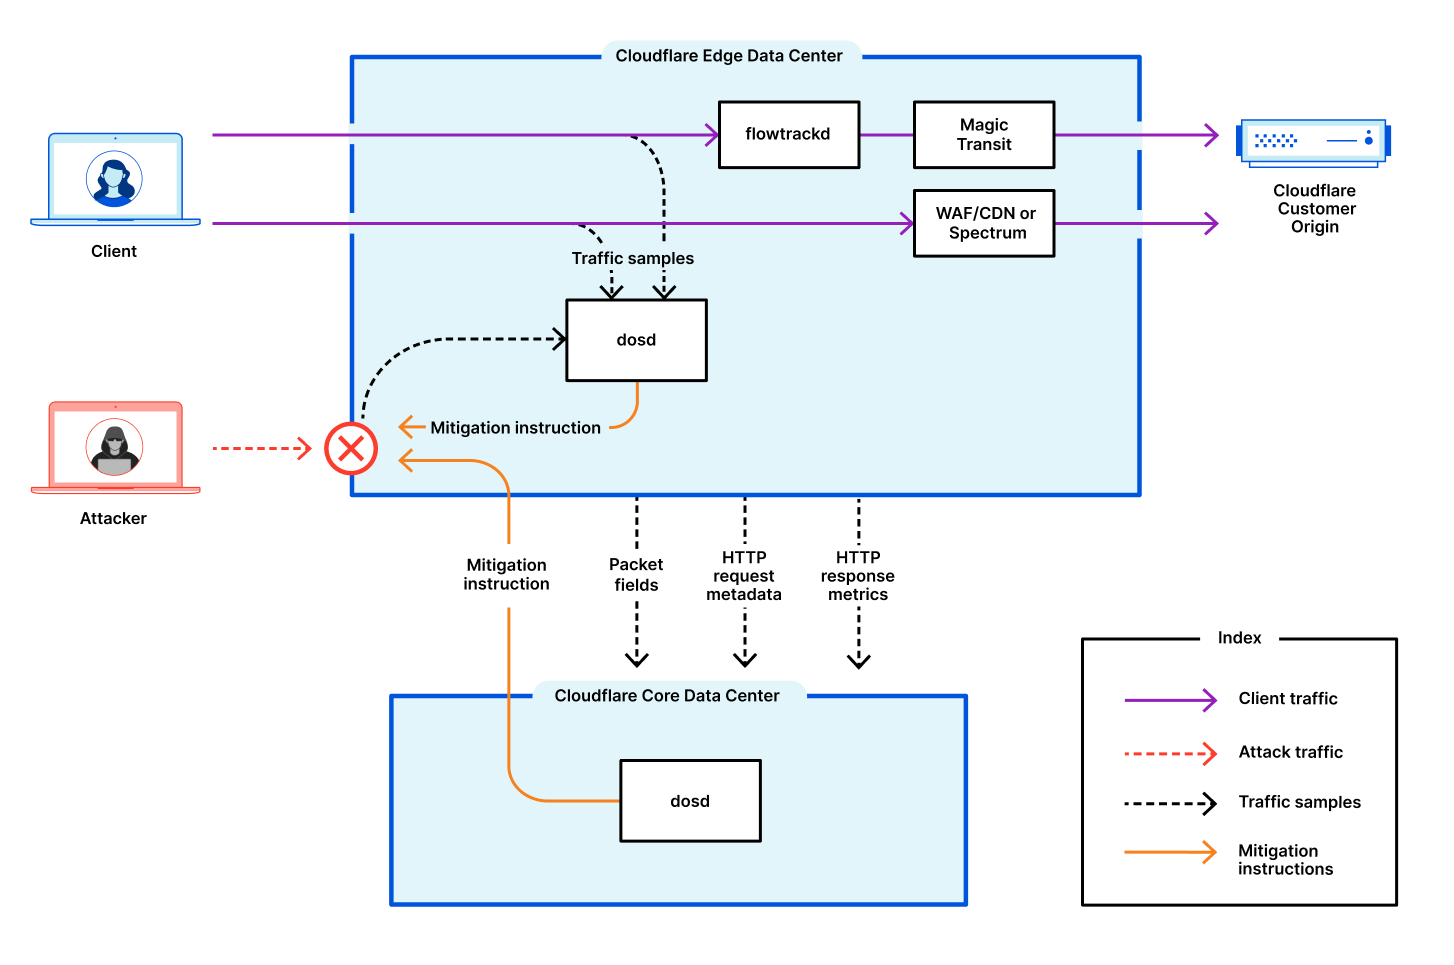
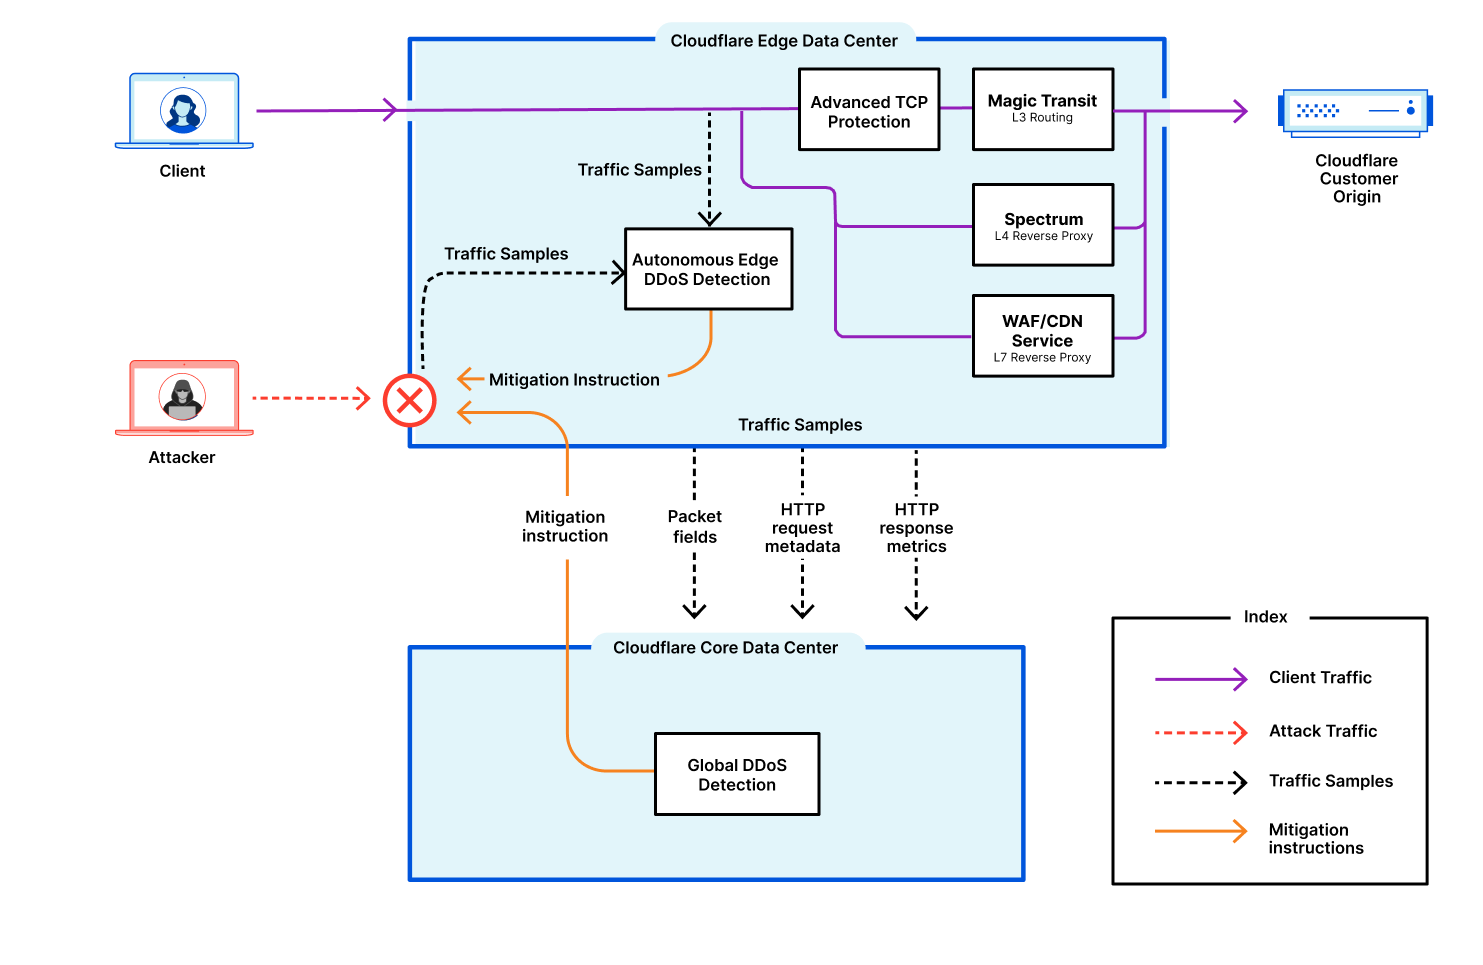
[DDoS Protection] Update components page (#6861)
* Change references from flowtrackd to Advanced TCP Protection and add some links
* Update components diagram and alt text

Changed region(s): [[0.0309, 0.0, 0.9904, 0.9637], [0.7428, 0.6218, 0.9904, 0.9637]]

diff --git a/content/ddos-protection/about/components.md b/content/ddos-protection/about/components.md
@@ -6,13 +6,13 @@ weight: 2
 
 # Main components
 
-![Diagram with the main components providing protection against DDoS attacks at Cloudflare: `dosd` and `flowtrackd`.](/ddos-protection/static/ddos-diagram.png)
+![Diagram with the main components providing protection against DDoS attacks at Cloudflare](/ddos-protection/static/ddos-diagram.png)
 
 ## Autonomous Edge
 
-The Cloudflare Autonomous Edge is powered by the denial-of-service daemon (`dosd`), which is a home-grown software-defined system. A `dosd` instance runs in every single server in every one of [Cloudflare’s edge data centers](https://www.cloudflare.com/network/) around the world. These `dosd` instances can detect and mitigate DDoS attacks autonomously without requiring centralized consensus.
+The Cloudflare Autonomous Edge is powered by the denial-of-service daemon (`dosd`), which is a home-grown software-defined system. A `dosd` instance runs in every single server in every one of [Cloudflare’s edge data centers](https://www.cloudflare.com/network/) around the world. These `dosd` instances can detect and mitigate DDoS attacks autonomously without requiring centralized consensus. Cloudflare users can configure this system through [DDoS Managed Rulesets](/ddos-protection/managed-rulesets/).
 
-Another component of Cloudflare’s Autonomous Edge includes the TCP flow tracking daemon (`flowtrackd`). This daemon is Cloudflare’s TCP state tracking machine for detecting and mitigating the most randomized and sophisticated TCP-based DDoS attacks in unidirectional routing topologies — such as the case of [Magic Transit](/magic-transit/). `flowtrackd` is able to identify the state of a TCP connection and then drops, challenges, or rate-limits packets that do not belong to a legitimate connection.
+Another component of Cloudflare’s Autonomous Edge includes the [Advanced TCP Protection](/ddos-protection/tcp-protection/) system. This is Cloudflare's TCP state tracking machine for detecting and mitigating the most randomized and sophisticated TCP-based DDoS attacks in unidirectional routing topologies — such as the case of [Magic Transit](/magic-transit/). Advanced TCP Protection is able to identify the state of a TCP connection and then drops, challenges, or rate-limits packets that do not belong to a legitimate connection.
 
 For more information, refer to our blog post [A deep-dive into Cloudflare’s autonomous edge DDoS protection](https://blog.cloudflare.com/deep-dive-cloudflare-autonomous-edge-ddos-protection/).
 
